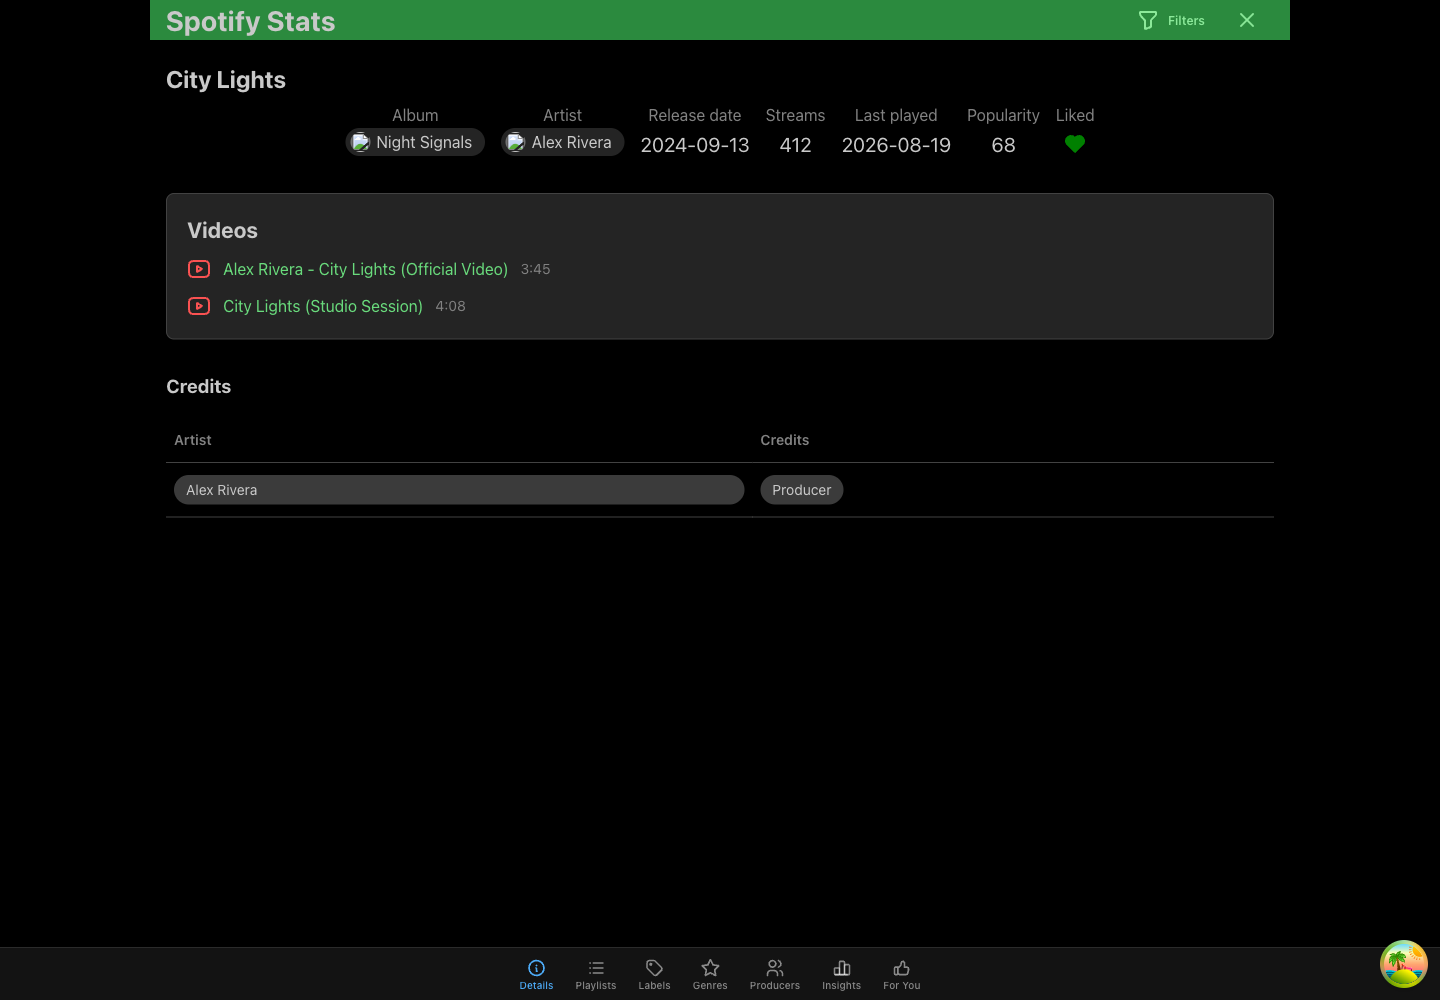
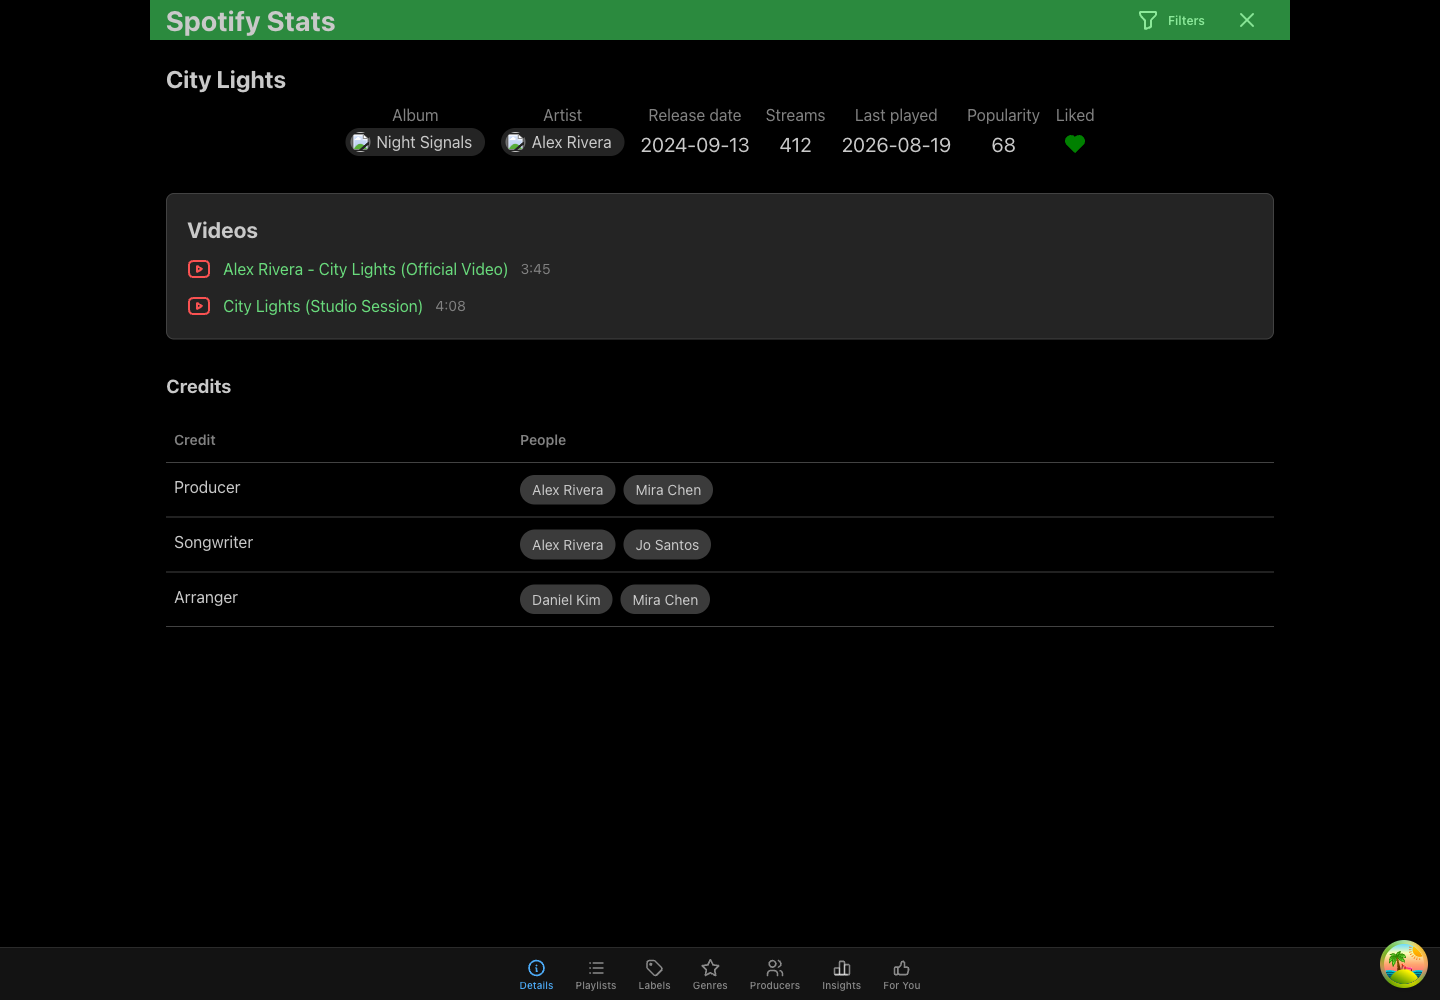
Group track credits by role
Copilot-Session: 787e165d-2cf7-4668-932c-0e909175b5fe

Changed region(s): [[0.125, 0.434, 0.5938, 0.62], [0.125, 0.589, 0.1562, 0.62]]

diff --git a/client/src/details/TrackDetails.tsx b/client/src/details/TrackDetails.tsx
@@ -126,27 +126,35 @@ function formatDuration(durationSeconds: number) {
 }
 
 function Credits({ credits }: { credits: Credit[] }) {
-  const creditsByArtist = credits.reduce(
+  const creditsByType = credits.reduce(
     (acc, credit) => {
-      const artistKey = credit.producer_key;
-      if (!acc[artistKey]) {
-        acc[artistKey] = {
-          artist: credit,
-          creditTypes: new Set<string>(),
-        };
-      }
-      acc[artistKey].creditTypes.add(credit.credit_type);
+      acc[credit.credit_type] = [...(acc[credit.credit_type] ?? []), credit];
       return acc;
     },
-    {} as Record<string, { artist: Credit; creditTypes: Set<string> }>,
+    {} as Record<string, Credit[]>,
   );
 
-  // Sort artists by name
-  const sortedArtists = Object.values(creditsByArtist).sort((a, b) => {
-    const nameA = a.artist.producer_name;
-    const nameB = b.artist.producer_name;
-    return nameA.localeCompare(nameB);
-  });
+  const creditTypeOrder = [
+    "producer",
+    "songwriter",
+    "lyricist",
+    "arranger",
+    "sound",
+    "mastering",
+    "audio director",
+    "video director",
+    "publishing",
+  ];
+  const sortedCreditTypes = Object.entries(creditsByType).sort(
+    ([typeA], [typeB]) => {
+      const indexA = creditTypeOrder.indexOf(typeA);
+      const indexB = creditTypeOrder.indexOf(typeB);
+      if (indexA === -1 && indexB === -1) return typeA.localeCompare(typeB);
+      if (indexA === -1) return 1;
+      if (indexB === -1) return -1;
+      return indexA - indexB;
+    },
+  );
 
   return (
     <div style={{ marginTop: 32, marginBottom: 32 }}>
@@ -172,7 +180,7 @@ function Credits({ credits }: { credits: Credit[] }) {
                 color: "var(--mantine-color-dimmed)",
               }}
             >
-              Artist
+              Credit
             </th>
             <th
               style={{
@@ -182,37 +190,39 @@ function Credits({ credits }: { credits: Credit[] }) {
                 color: "var(--mantine-color-dimmed)",
               }}
             >
-              Credits
+              People
             </th>
           </tr>
         </thead>
         <tbody>
-          {sortedArtists.map(({ artist, creditTypes }) => (
+          {sortedCreditTypes.map(([creditType, creditedPeople]) => (
             <tr
-              key={artist.producer_key}
+              key={creditType}
               style={{
                 borderBottom: "1px solid var(--mantine-color-default-border)",
               }}
             >
-              <td style={{ padding: "12px 8px" }}>
-                <CreditArtist credit={artist} />
+              <td
+                style={{
+                  padding: "12px 8px",
+                  textTransform: "capitalize",
+                  verticalAlign: "top",
+                }}
+              >
+                {creditType}
               </td>
               <td style={{ padding: "12px 8px" }}>
                 <div style={{ display: "flex", flexWrap: "wrap", gap: 8 }}>
-                  {Array.from(creditTypes).map((creditType) => (
-                    <div
-                      key={creditType}
-                      style={{
-                        padding: "4px 12px",
-                        borderRadius: "16px",
-                        backgroundColor: "var(--mantine-color-default-hover)",
-                        fontSize: "0.875rem",
-                        textTransform: "capitalize",
-                      }}
-                    >
-                      {creditType}
-                    </div>
-                  ))}
+                  {creditedPeople
+                    .sort((a, b) =>
+                      a.producer_name.localeCompare(b.producer_name),
+                    )
+                    .map((credit) => (
+                      <CreditArtist
+                        key={credit.producer_key}
+                        credit={credit}
+                      />
+                    ))}
                 </div>
               </td>
             </tr>
